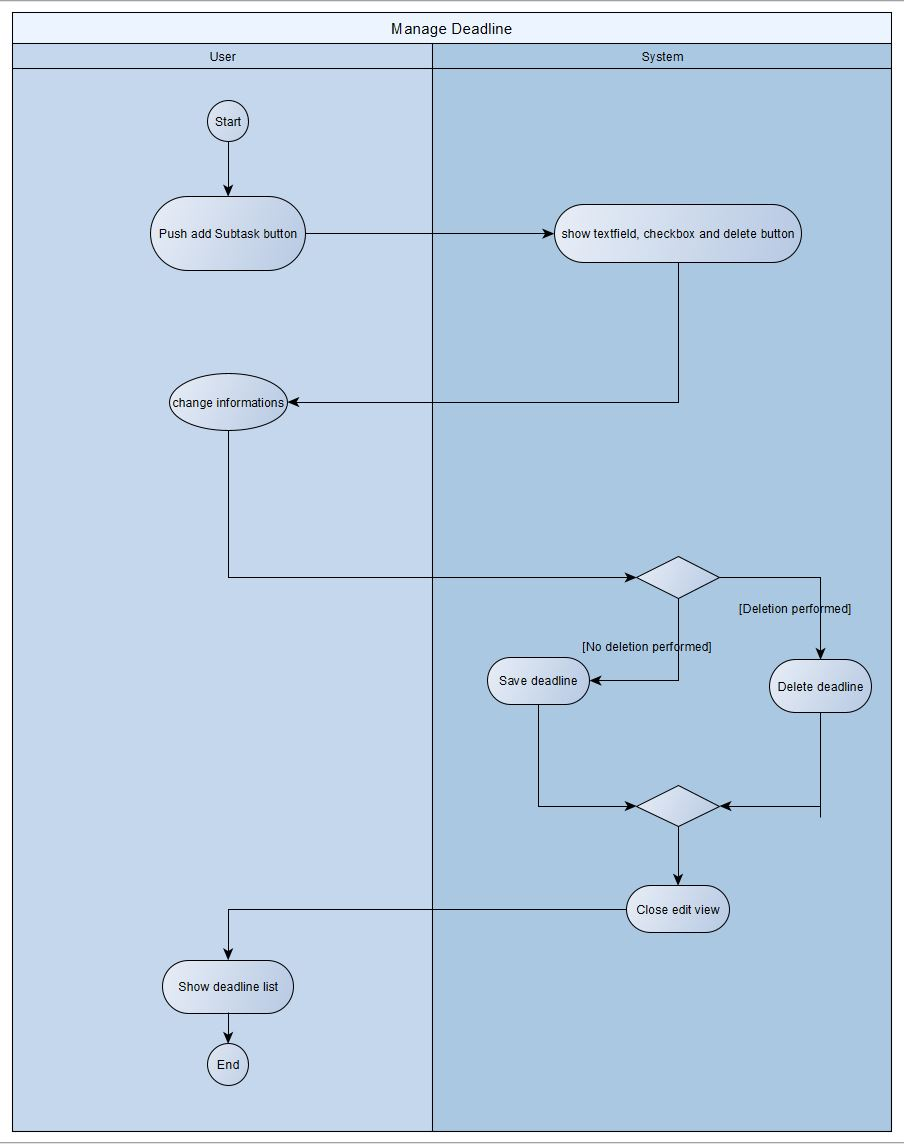
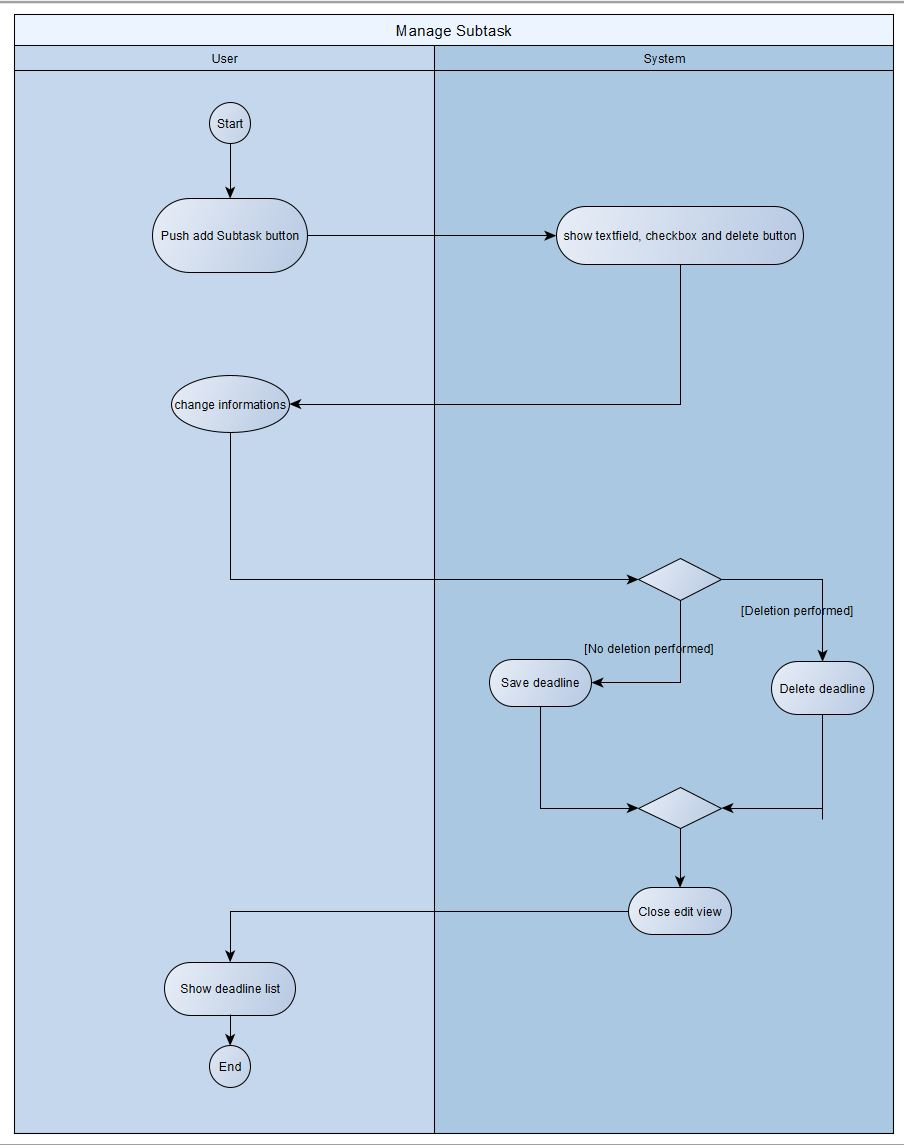
Title updated

diff --git a/Documentation/Use-Cases/UC_Manage_subtask/manageSubtaskUsecase.md b/Documentation/Use-Cases/UC_Manage_subtask/manageSubtaskUsecase.md
@@ -1,4 +1,4 @@
-# Use-Case Specification: Manage deadline
+# Use-Case Specification: Manage Subtask
 
 # 1. Use-Case Name
 
